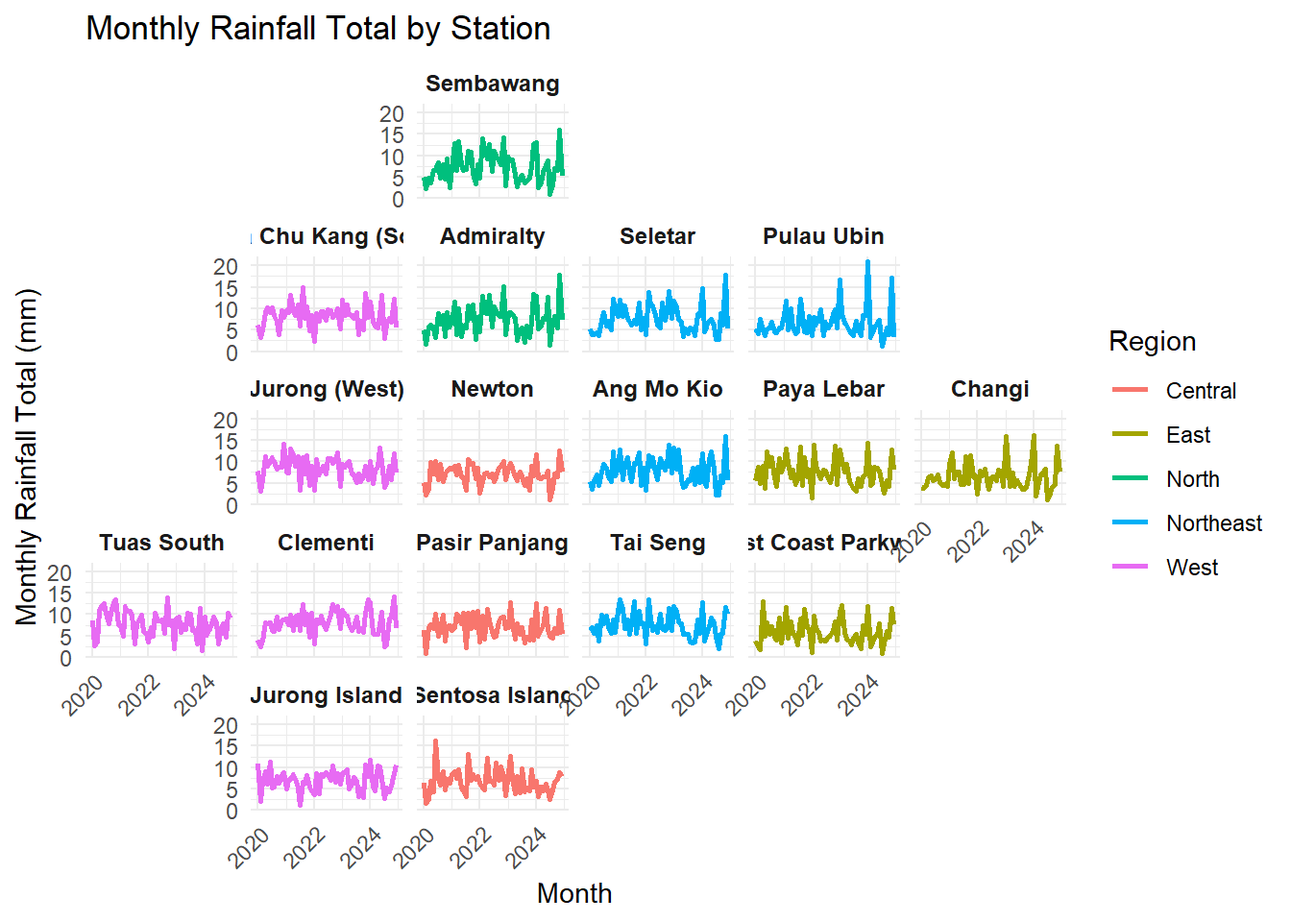
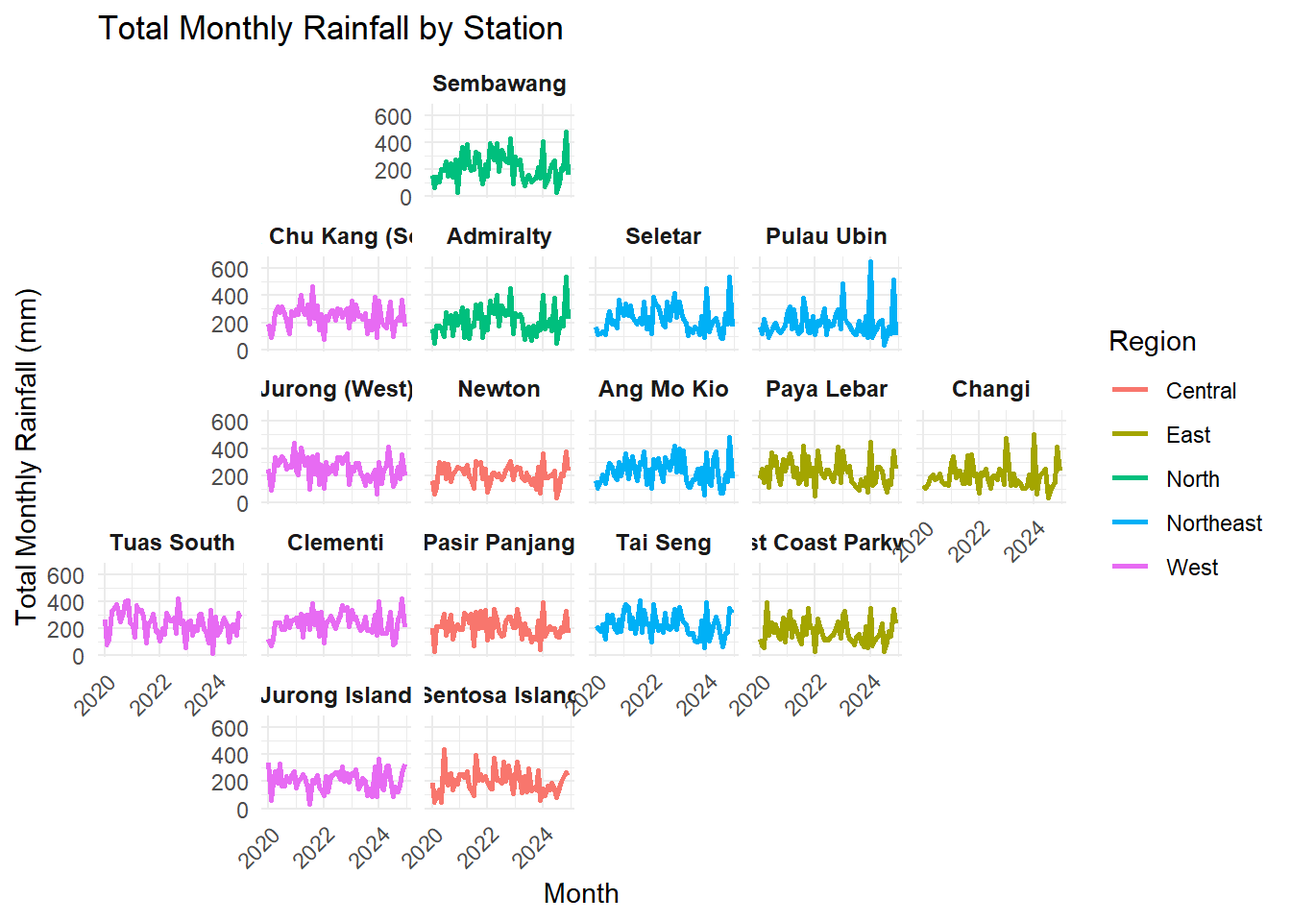
Commit after editing Take-home Exercise 3

diff --git a/_site/Take-home_Ex/Take-home_Ex03/Take-home_Ex03.html b/_site/Take-home_Ex/Take-home_Ex03/Take-home_Ex03.html
@@ -196,6 +196,10 @@ pre > code.sourceCode > span > a:first-child::before { text-decoration: underlin
     <a class="dropdown-item" href="../../Hands-on_Ex/Hands-on_Ex09/Hands-on_Ex09.html">
  <span class="dropdown-text">Hands-on Exercise 9</span></a>
   </li>  
+        <li>
+    <a class="dropdown-item" href="../../Hands-on_Ex/Hands-on_Ex10/Hands-on_Ex10.html">
+ <span class="dropdown-text">Hands-on Exercise 10</span></a>
+  </li>  
     </ul>
   </li>
   <li class="nav-item dropdown ">
@@ -274,8 +278,11 @@ pre > code.sourceCode > span > a:first-child::before { text-decoration: underlin
   <li><a href="#visualize-the-data-with-facet_geo" id="toc-visualize-the-data-with-facet_geo" class="nav-link" data-scroll-target="#visualize-the-data-with-facet_geo">Visualize the Data with <code>facet_geo()</code></a>
   <ul class="collapse">
   <li><a href="#monthly-mean-temperature" id="toc-monthly-mean-temperature" class="nav-link" data-scroll-target="#monthly-mean-temperature">Monthly Mean Temperature:</a></li>
-  <li><a href="#monthly-rainfall-total" id="toc-monthly-rainfall-total" class="nav-link" data-scroll-target="#monthly-rainfall-total">Monthly Rainfall Total:</a></li>
+  <li><a href="#monthly-total-rainfall" id="toc-monthly-total-rainfall" class="nav-link" data-scroll-target="#monthly-total-rainfall">Monthly Total Rainfall:</a></li>
   <li><a href="#yearly-mean-temperature" id="toc-yearly-mean-temperature" class="nav-link" data-scroll-target="#yearly-mean-temperature">Yearly Mean Temperature:</a></li>
+  <li><a href="#yearly-total-rainfall" id="toc-yearly-total-rainfall" class="nav-link" data-scroll-target="#yearly-total-rainfall">Yearly Total Rainfall:</a></li>
+  <li><a href="#monthly-mean-temperature-by-station-2024" id="toc-monthly-mean-temperature-by-station-2024" class="nav-link" data-scroll-target="#monthly-mean-temperature-by-station-2024">Monthly Mean Temperature by Station (2024)</a></li>
+  <li><a href="#monthly-total-rainfall-by-station-2024" id="toc-monthly-total-rainfall-by-station-2024" class="nav-link" data-scroll-target="#monthly-total-rainfall-by-station-2024">Monthly Total Rainfall by Station (2024)</a></li>
   </ul></li>
   </ul>
 </nav>
@@ -370,6 +377,7 @@ date  (1): Date
 </section>
 <section id="visualize-the-data-with-facet_geo" class="level2">
 <h2 class="anchored" data-anchor-id="visualize-the-data-with-facet_geo">Visualize the Data with <code>facet_geo()</code></h2>
+<p>Geofaceting with line graphs and bar charts.</p>
 <section id="monthly-mean-temperature" class="level3">
 <h3 class="anchored" data-anchor-id="monthly-mean-temperature">Monthly Mean Temperature:</h3>
 <div class="cell">
@@ -410,23 +418,24 @@ date  (1): Date
 </div>
 </div>
 </section>
-<section id="monthly-rainfall-total" class="level3">
-<h3 class="anchored" data-anchor-id="monthly-rainfall-total">Monthly Rainfall Total:</h3>
+<section id="monthly-total-rainfall" class="level3">
+<h3 class="anchored" data-anchor-id="monthly-total-rainfall">Monthly Total Rainfall:</h3>
 <div class="cell">
-<div class="sourceCode cell-code" id="cb9"><pre class="sourceCode r code-with-copy"><code class="sourceCode r"><span id="cb9-1"><a href="#cb9-1" aria-hidden="true" tabindex="-1"></a><span class="co"># Aggregate to monthly means</span></span>
-<span id="cb9-2"><a href="#cb9-2" aria-hidden="true" tabindex="-1"></a>weather_monthly <span class="ot">&lt;-</span> weather_data <span class="sc">%&gt;%</span></span>
+<div class="sourceCode cell-code" id="cb9"><pre class="sourceCode r code-with-copy"><code class="sourceCode r"><span id="cb9-1"><a href="#cb9-1" aria-hidden="true" tabindex="-1"></a><span class="co"># Aggregate to monthly total rainfall</span></span>
+<span id="cb9-2"><a href="#cb9-2" aria-hidden="true" tabindex="-1"></a>rainfall_monthly <span class="ot">&lt;-</span> weather_data <span class="sc">%&gt;%</span></span>
 <span id="cb9-3"><a href="#cb9-3" aria-hidden="true" tabindex="-1"></a>  <span class="fu">mutate</span>(<span class="at">Month =</span> <span class="fu">floor_date</span>(Date, <span class="st">"month"</span>)) <span class="sc">%&gt;%</span></span>
 <span id="cb9-4"><a href="#cb9-4" aria-hidden="true" tabindex="-1"></a>  <span class="fu">group_by</span>(Station, Region, Month) <span class="sc">%&gt;%</span></span>
-<span id="cb9-5"><a href="#cb9-5" aria-hidden="true" tabindex="-1"></a>  <span class="fu">summarise</span>(<span class="st">`</span><span class="at">Daily Rainfall Total (mm)</span><span class="st">`</span> <span class="ot">=</span> <span class="fu">mean</span>(<span class="st">`</span><span class="at">Daily Rainfall Total (mm)</span><span class="st">`</span>, <span class="at">na.rm =</span> <span class="cn">TRUE</span>), <span class="at">.groups =</span> <span class="st">"drop"</span>)</span>
+<span id="cb9-5"><a href="#cb9-5" aria-hidden="true" tabindex="-1"></a>  <span class="fu">summarise</span>(<span class="st">`</span><span class="at">Total Monthly Rainfall (mm)</span><span class="st">`</span> <span class="ot">=</span> <span class="fu">sum</span>(<span class="st">`</span><span class="at">Daily Rainfall Total (mm)</span><span class="st">`</span>, <span class="at">na.rm =</span> <span class="cn">TRUE</span>), <span class="at">.groups =</span> <span class="st">"drop"</span>)</span>
 <span id="cb9-6"><a href="#cb9-6" aria-hidden="true" tabindex="-1"></a></span>
-<span id="cb9-7"><a href="#cb9-7" aria-hidden="true" tabindex="-1"></a><span class="fu">ggplot</span>(weather_monthly, <span class="fu">aes</span>(<span class="at">x =</span> Month, <span class="at">y =</span> <span class="st">`</span><span class="at">Daily Rainfall Total (mm)</span><span class="st">`</span>, <span class="at">color =</span> Region)) <span class="sc">+</span></span>
-<span id="cb9-8"><a href="#cb9-8" aria-hidden="true" tabindex="-1"></a>  <span class="fu">geom_line</span>(<span class="at">size =</span> <span class="dv">1</span>) <span class="sc">+</span>  </span>
-<span id="cb9-9"><a href="#cb9-9" aria-hidden="true" tabindex="-1"></a>  <span class="fu">facet_geo</span>(<span class="sc">~</span> Station, <span class="at">grid =</span> custom_grid) <span class="sc">+</span></span>
-<span id="cb9-10"><a href="#cb9-10" aria-hidden="true" tabindex="-1"></a>  <span class="fu">theme_minimal</span>() <span class="sc">+</span></span>
-<span id="cb9-11"><a href="#cb9-11" aria-hidden="true" tabindex="-1"></a>  <span class="fu">labs</span>(<span class="at">title =</span> <span class="st">"Monthly Rainfall Total by Station"</span>,</span>
-<span id="cb9-12"><a href="#cb9-12" aria-hidden="true" tabindex="-1"></a>       <span class="at">x =</span> <span class="st">"Month"</span>, <span class="at">y =</span> <span class="st">"Monthly Rainfall Total (mm)"</span>) <span class="sc">+</span></span>
-<span id="cb9-13"><a href="#cb9-13" aria-hidden="true" tabindex="-1"></a>  <span class="fu">theme</span>(<span class="at">strip.text =</span> <span class="fu">element_text</span>(<span class="at">size =</span> <span class="dv">9</span>, <span class="at">face =</span> <span class="st">"bold"</span>),</span>
-<span id="cb9-14"><a href="#cb9-14" aria-hidden="true" tabindex="-1"></a>        <span class="at">axis.text.x =</span> <span class="fu">element_text</span>(<span class="at">angle =</span> <span class="dv">45</span>, <span class="at">hjust =</span> <span class="dv">1</span>))</span></code><button title="Copy to Clipboard" class="code-copy-button"><i class="bi"></i></button></pre></div>
+<span id="cb9-7"><a href="#cb9-7" aria-hidden="true" tabindex="-1"></a><span class="co"># Geofacet plot</span></span>
+<span id="cb9-8"><a href="#cb9-8" aria-hidden="true" tabindex="-1"></a><span class="fu">ggplot</span>(rainfall_monthly, <span class="fu">aes</span>(<span class="at">x =</span> Month, <span class="at">y =</span> <span class="st">`</span><span class="at">Total Monthly Rainfall (mm)</span><span class="st">`</span>, <span class="at">color =</span> Region)) <span class="sc">+</span></span>
+<span id="cb9-9"><a href="#cb9-9" aria-hidden="true" tabindex="-1"></a>  <span class="fu">geom_line</span>(<span class="at">size =</span> <span class="dv">1</span>) <span class="sc">+</span></span>
+<span id="cb9-10"><a href="#cb9-10" aria-hidden="true" tabindex="-1"></a>  <span class="fu">facet_geo</span>(<span class="sc">~</span> Station, <span class="at">grid =</span> custom_grid) <span class="sc">+</span></span>
+<span id="cb9-11"><a href="#cb9-11" aria-hidden="true" tabindex="-1"></a>  <span class="fu">theme_minimal</span>() <span class="sc">+</span></span>
+<span id="cb9-12"><a href="#cb9-12" aria-hidden="true" tabindex="-1"></a>  <span class="fu">labs</span>(<span class="at">title =</span> <span class="st">"Total Monthly Rainfall by Station"</span>,</span>
+<span id="cb9-13"><a href="#cb9-13" aria-hidden="true" tabindex="-1"></a>       <span class="at">x =</span> <span class="st">"Month"</span>, <span class="at">y =</span> <span class="st">"Total Monthly Rainfall (mm)"</span>) <span class="sc">+</span></span>
+<span id="cb9-14"><a href="#cb9-14" aria-hidden="true" tabindex="-1"></a>  <span class="fu">theme</span>(<span class="at">strip.text =</span> <span class="fu">element_text</span>(<span class="at">size =</span> <span class="dv">9</span>, <span class="at">face =</span> <span class="st">"bold"</span>),</span>
+<span id="cb9-15"><a href="#cb9-15" aria-hidden="true" tabindex="-1"></a>        <span class="at">axis.text.x =</span> <span class="fu">element_text</span>(<span class="at">angle =</span> <span class="dv">45</span>, <span class="at">hjust =</span> <span class="dv">1</span>))</span></code><button title="Copy to Clipboard" class="code-copy-button"><i class="bi"></i></button></pre></div>
 <div class="cell-output cell-output-stderr">
 <pre><code>Note: You provided a user-specified grid. If this is a generally-useful
   grid, please consider submitting it to become a part of the geofacet
@@ -477,24 +486,25 @@ date  (1): Date
 </div>
 </div>
 </div>
+</section>
+<section id="yearly-total-rainfall" class="level3">
+<h3 class="anchored" data-anchor-id="yearly-total-rainfall">Yearly Total Rainfall:</h3>
 <div class="cell">
-<div class="sourceCode cell-code" id="cb14"><pre class="sourceCode r code-with-copy"><code class="sourceCode r"><span id="cb14-1"><a href="#cb14-1" aria-hidden="true" tabindex="-1"></a><span class="co"># Filter for 2024 and aggregate to monthly means</span></span>
-<span id="cb14-2"><a href="#cb14-2" aria-hidden="true" tabindex="-1"></a>weather_2024_monthly <span class="ot">&lt;-</span> weather_data <span class="sc">%&gt;%</span></span>
-<span id="cb14-3"><a href="#cb14-3" aria-hidden="true" tabindex="-1"></a>  <span class="fu">filter</span>(<span class="fu">year</span>(Date) <span class="sc">==</span> <span class="dv">2024</span>) <span class="sc">%&gt;%</span></span>
-<span id="cb14-4"><a href="#cb14-4" aria-hidden="true" tabindex="-1"></a>  <span class="fu">mutate</span>(<span class="at">Month =</span> <span class="fu">floor_date</span>(Date, <span class="st">"month"</span>)) <span class="sc">%&gt;%</span></span>
-<span id="cb14-5"><a href="#cb14-5" aria-hidden="true" tabindex="-1"></a>  <span class="fu">group_by</span>(Station, Region, Month) <span class="sc">%&gt;%</span></span>
-<span id="cb14-6"><a href="#cb14-6" aria-hidden="true" tabindex="-1"></a>  <span class="fu">summarise</span>(<span class="st">`</span><span class="at">Mean Temperature (°C)</span><span class="st">`</span> <span class="ot">=</span> <span class="fu">mean</span>(<span class="st">`</span><span class="at">Mean Temperature (°C)</span><span class="st">`</span>, <span class="at">na.rm =</span> <span class="cn">TRUE</span>), <span class="at">.groups =</span> <span class="st">"drop"</span>)</span>
-<span id="cb14-7"><a href="#cb14-7" aria-hidden="true" tabindex="-1"></a></span>
-<span id="cb14-8"><a href="#cb14-8" aria-hidden="true" tabindex="-1"></a><span class="co"># Geofacet plot for 2024</span></span>
-<span id="cb14-9"><a href="#cb14-9" aria-hidden="true" tabindex="-1"></a><span class="fu">ggplot</span>(weather_2024_monthly, <span class="fu">aes</span>(<span class="at">x =</span> Month, <span class="at">y =</span> <span class="st">`</span><span class="at">Mean Temperature (°C)</span><span class="st">`</span>, <span class="at">color =</span> Region)) <span class="sc">+</span></span>
-<span id="cb14-10"><a href="#cb14-10" aria-hidden="true" tabindex="-1"></a>  <span class="fu">geom_line</span>(<span class="at">size =</span> <span class="dv">1</span>) <span class="sc">+</span></span>
-<span id="cb14-11"><a href="#cb14-11" aria-hidden="true" tabindex="-1"></a>  <span class="fu">facet_geo</span>(<span class="sc">~</span> Station, <span class="at">grid =</span> custom_grid) <span class="sc">+</span></span>
-<span id="cb14-12"><a href="#cb14-12" aria-hidden="true" tabindex="-1"></a>  <span class="fu">theme_minimal</span>() <span class="sc">+</span></span>
-<span id="cb14-13"><a href="#cb14-13" aria-hidden="true" tabindex="-1"></a>  <span class="fu">labs</span>(<span class="at">title =</span> <span class="st">"Monthly Mean Temperature by Station (2024)"</span>,</span>
-<span id="cb14-14"><a href="#cb14-14" aria-hidden="true" tabindex="-1"></a>       <span class="at">x =</span> <span class="st">"Month"</span>, <span class="at">y =</span> <span class="st">"Mean Temperature (°C)"</span>) <span class="sc">+</span></span>
-<span id="cb14-15"><a href="#cb14-15" aria-hidden="true" tabindex="-1"></a>  <span class="fu">scale_x_date</span>(<span class="at">date_labels =</span> <span class="st">"%b"</span>, <span class="at">date_breaks =</span> <span class="st">"1 month"</span>) <span class="sc">+</span></span>
-<span id="cb14-16"><a href="#cb14-16" aria-hidden="true" tabindex="-1"></a>  <span class="fu">theme</span>(<span class="at">strip.text =</span> <span class="fu">element_text</span>(<span class="at">size =</span> <span class="dv">9</span>, <span class="at">face =</span> <span class="st">"bold"</span>),</span>
-<span id="cb14-17"><a href="#cb14-17" aria-hidden="true" tabindex="-1"></a>        <span class="at">axis.text.x =</span> <span class="fu">element_text</span>(<span class="at">angle =</span> <span class="dv">45</span>, <span class="at">hjust =</span> <span class="dv">1</span>))</span></code><button title="Copy to Clipboard" class="code-copy-button"><i class="bi"></i></button></pre></div>
+<div class="sourceCode cell-code" id="cb14"><pre class="sourceCode r code-with-copy"><code class="sourceCode r"><span id="cb14-1"><a href="#cb14-1" aria-hidden="true" tabindex="-1"></a><span class="co"># Aggregate to yearly total rainfall</span></span>
+<span id="cb14-2"><a href="#cb14-2" aria-hidden="true" tabindex="-1"></a>rainfall_yearly <span class="ot">&lt;-</span> weather_data <span class="sc">%&gt;%</span></span>
+<span id="cb14-3"><a href="#cb14-3" aria-hidden="true" tabindex="-1"></a>  <span class="fu">mutate</span>(<span class="at">Year =</span> <span class="fu">year</span>(Date)) <span class="sc">%&gt;%</span></span>
+<span id="cb14-4"><a href="#cb14-4" aria-hidden="true" tabindex="-1"></a>  <span class="fu">group_by</span>(Station, Region, Year) <span class="sc">%&gt;%</span></span>
+<span id="cb14-5"><a href="#cb14-5" aria-hidden="true" tabindex="-1"></a>  <span class="fu">summarise</span>(<span class="st">`</span><span class="at">Total Yearly Rainfall (mm)</span><span class="st">`</span> <span class="ot">=</span> <span class="fu">sum</span>(<span class="st">`</span><span class="at">Daily Rainfall Total (mm)</span><span class="st">`</span>, <span class="at">na.rm =</span> <span class="cn">TRUE</span>), <span class="at">.groups =</span> <span class="st">"drop"</span>)</span>
+<span id="cb14-6"><a href="#cb14-6" aria-hidden="true" tabindex="-1"></a></span>
+<span id="cb14-7"><a href="#cb14-7" aria-hidden="true" tabindex="-1"></a><span class="co"># Geofacet bar chart of yearly total rainfall</span></span>
+<span id="cb14-8"><a href="#cb14-8" aria-hidden="true" tabindex="-1"></a><span class="fu">ggplot</span>(rainfall_yearly, <span class="fu">aes</span>(<span class="at">x =</span> <span class="fu">factor</span>(Year), <span class="at">y =</span> <span class="st">`</span><span class="at">Total Yearly Rainfall (mm)</span><span class="st">`</span>, <span class="at">fill =</span> Region)) <span class="sc">+</span></span>
+<span id="cb14-9"><a href="#cb14-9" aria-hidden="true" tabindex="-1"></a>  <span class="fu">geom_col</span>() <span class="sc">+</span></span>
+<span id="cb14-10"><a href="#cb14-10" aria-hidden="true" tabindex="-1"></a>  <span class="fu">facet_geo</span>(<span class="sc">~</span> Station, <span class="at">grid =</span> custom_grid) <span class="sc">+</span></span>
+<span id="cb14-11"><a href="#cb14-11" aria-hidden="true" tabindex="-1"></a>  <span class="fu">theme_minimal</span>() <span class="sc">+</span></span>
+<span id="cb14-12"><a href="#cb14-12" aria-hidden="true" tabindex="-1"></a>  <span class="fu">labs</span>(<span class="at">title =</span> <span class="st">"Yearly Total Rainfall by Station"</span>,</span>
+<span id="cb14-13"><a href="#cb14-13" aria-hidden="true" tabindex="-1"></a>       <span class="at">x =</span> <span class="st">"Year"</span>, <span class="at">y =</span> <span class="st">"Total Rainfall (mm)"</span>) <span class="sc">+</span></span>
+<span id="cb14-14"><a href="#cb14-14" aria-hidden="true" tabindex="-1"></a>  <span class="fu">theme</span>(<span class="at">strip.text =</span> <span class="fu">element_text</span>(<span class="at">size =</span> <span class="dv">9</span>, <span class="at">face =</span> <span class="st">"bold"</span>),</span>
+<span id="cb14-15"><a href="#cb14-15" aria-hidden="true" tabindex="-1"></a>        <span class="at">axis.text.x =</span> <span class="fu">element_text</span>(<span class="at">angle =</span> <span class="dv">45</span>, <span class="at">hjust =</span> <span class="dv">1</span>))</span></code><button title="Copy to Clipboard" class="code-copy-button"><i class="bi"></i></button></pre></div>
 <div class="cell-output cell-output-stderr">
 <pre><code>Note: You provided a user-specified grid. If this is a generally-useful
   grid, please consider submitting it to become a part of the geofacet
@@ -505,6 +515,108 @@ date  (1): Date
 <div>
 <figure class="figure">
 <p><img src="Take-home_Ex03_files/figure-html/unnamed-chunk-7-1.png" class="img-fluid figure-img" width="672"></p>
+</figure>
+</div>
+</div>
+</div>
+</section>
+<section id="monthly-mean-temperature-by-station-2024" class="level3">
+<h3 class="anchored" data-anchor-id="monthly-mean-temperature-by-station-2024">Monthly Mean Temperature by Station (2024)</h3>
+<div class="cell">
+<div class="sourceCode cell-code" id="cb16"><pre class="sourceCode r code-with-copy"><code class="sourceCode r"><span id="cb16-1"><a href="#cb16-1" aria-hidden="true" tabindex="-1"></a><span class="co"># Filter for 2024 and aggregate to monthly means</span></span>
+<span id="cb16-2"><a href="#cb16-2" aria-hidden="true" tabindex="-1"></a>weather_2024_monthly <span class="ot">&lt;-</span> weather_data <span class="sc">%&gt;%</span></span>
+<span id="cb16-3"><a href="#cb16-3" aria-hidden="true" tabindex="-1"></a>  <span class="fu">filter</span>(<span class="fu">year</span>(Date) <span class="sc">==</span> <span class="dv">2024</span>) <span class="sc">%&gt;%</span></span>
+<span id="cb16-4"><a href="#cb16-4" aria-hidden="true" tabindex="-1"></a>  <span class="fu">mutate</span>(<span class="at">Month =</span> <span class="fu">floor_date</span>(Date, <span class="st">"month"</span>)) <span class="sc">%&gt;%</span></span>
+<span id="cb16-5"><a href="#cb16-5" aria-hidden="true" tabindex="-1"></a>  <span class="fu">group_by</span>(Station, Region, Month) <span class="sc">%&gt;%</span></span>
+<span id="cb16-6"><a href="#cb16-6" aria-hidden="true" tabindex="-1"></a>  <span class="fu">summarise</span>(<span class="st">`</span><span class="at">Mean Temperature (°C)</span><span class="st">`</span> <span class="ot">=</span> <span class="fu">mean</span>(<span class="st">`</span><span class="at">Mean Temperature (°C)</span><span class="st">`</span>, <span class="at">na.rm =</span> <span class="cn">TRUE</span>), <span class="at">.groups =</span> <span class="st">"drop"</span>)</span>
+<span id="cb16-7"><a href="#cb16-7" aria-hidden="true" tabindex="-1"></a></span>
+<span id="cb16-8"><a href="#cb16-8" aria-hidden="true" tabindex="-1"></a><span class="co"># Geofacet plot for 2024</span></span>
+<span id="cb16-9"><a href="#cb16-9" aria-hidden="true" tabindex="-1"></a><span class="fu">ggplot</span>(weather_2024_monthly, <span class="fu">aes</span>(<span class="at">x =</span> Month, <span class="at">y =</span> <span class="st">`</span><span class="at">Mean Temperature (°C)</span><span class="st">`</span>, <span class="at">color =</span> Region)) <span class="sc">+</span></span>
+<span id="cb16-10"><a href="#cb16-10" aria-hidden="true" tabindex="-1"></a>  <span class="fu">geom_line</span>(<span class="at">size =</span> <span class="dv">1</span>) <span class="sc">+</span></span>
+<span id="cb16-11"><a href="#cb16-11" aria-hidden="true" tabindex="-1"></a>  <span class="fu">facet_geo</span>(<span class="sc">~</span> Station, <span class="at">grid =</span> custom_grid) <span class="sc">+</span></span>
+<span id="cb16-12"><a href="#cb16-12" aria-hidden="true" tabindex="-1"></a>  <span class="fu">theme_minimal</span>() <span class="sc">+</span></span>
+<span id="cb16-13"><a href="#cb16-13" aria-hidden="true" tabindex="-1"></a>  <span class="fu">labs</span>(<span class="at">title =</span> <span class="st">"Monthly Mean Temperature by Station (2024)"</span>,</span>
+<span id="cb16-14"><a href="#cb16-14" aria-hidden="true" tabindex="-1"></a>       <span class="at">x =</span> <span class="st">"Month"</span>, <span class="at">y =</span> <span class="st">"Mean Temperature (°C)"</span>) <span class="sc">+</span></span>
+<span id="cb16-15"><a href="#cb16-15" aria-hidden="true" tabindex="-1"></a>  <span class="fu">scale_x_date</span>(<span class="at">date_labels =</span> <span class="st">"%b"</span>, <span class="at">date_breaks =</span> <span class="st">"1 month"</span>) <span class="sc">+</span></span>
+<span id="cb16-16"><a href="#cb16-16" aria-hidden="true" tabindex="-1"></a>  <span class="fu">theme</span>(<span class="at">strip.text =</span> <span class="fu">element_text</span>(<span class="at">size =</span> <span class="dv">9</span>, <span class="at">face =</span> <span class="st">"bold"</span>),</span>
+<span id="cb16-17"><a href="#cb16-17" aria-hidden="true" tabindex="-1"></a>        <span class="at">axis.text.x =</span> <span class="fu">element_text</span>(<span class="at">angle =</span> <span class="dv">45</span>, <span class="at">hjust =</span> <span class="dv">1</span>))</span></code><button title="Copy to Clipboard" class="code-copy-button"><i class="bi"></i></button></pre></div>
+<div class="cell-output cell-output-stderr">
+<pre><code>Note: You provided a user-specified grid. If this is a generally-useful
+  grid, please consider submitting it to become a part of the geofacet
+  package. You can do this easily by calling:
+  grid_submit(__grid_df_name__)</code></pre>
+</div>
+<div class="cell-output-display">
+<div>
+<figure class="figure">
+<p><img src="Take-home_Ex03_files/figure-html/unnamed-chunk-8-1.png" class="img-fluid figure-img" width="672"></p>
+</figure>
+</div>
+</div>
+</div>
+</section>
+<section id="monthly-total-rainfall-by-station-2024" class="level3">
+<h3 class="anchored" data-anchor-id="monthly-total-rainfall-by-station-2024">Monthly Total Rainfall by Station (2024)</h3>
+<div class="cell">
+<div class="sourceCode cell-code" id="cb18"><pre class="sourceCode r code-with-copy"><code class="sourceCode r"><span id="cb18-1"><a href="#cb18-1" aria-hidden="true" tabindex="-1"></a><span class="co"># Aggregate to monthly total rainfall for 2024</span></span>
+<span id="cb18-2"><a href="#cb18-2" aria-hidden="true" tabindex="-1"></a>rainfall_2024 <span class="ot">&lt;-</span> weather_data <span class="sc">%&gt;%</span></span>
+<span id="cb18-3"><a href="#cb18-3" aria-hidden="true" tabindex="-1"></a>  <span class="fu">filter</span>(<span class="fu">year</span>(Date) <span class="sc">==</span> <span class="dv">2024</span>) <span class="sc">%&gt;%</span></span>
+<span id="cb18-4"><a href="#cb18-4" aria-hidden="true" tabindex="-1"></a>  <span class="fu">mutate</span>(<span class="at">Month =</span> <span class="fu">floor_date</span>(Date, <span class="st">"month"</span>)) <span class="sc">%&gt;%</span></span>
+<span id="cb18-5"><a href="#cb18-5" aria-hidden="true" tabindex="-1"></a>  <span class="fu">group_by</span>(Station, Region, Month) <span class="sc">%&gt;%</span></span>
+<span id="cb18-6"><a href="#cb18-6" aria-hidden="true" tabindex="-1"></a>  <span class="fu">summarise</span>(<span class="st">`</span><span class="at">Daily Rainfall Total (mm)</span><span class="st">`</span> <span class="ot">=</span> <span class="fu">sum</span>(<span class="st">`</span><span class="at">Daily Rainfall Total (mm)</span><span class="st">`</span>, <span class="at">na.rm =</span> <span class="cn">TRUE</span>), <span class="at">.groups =</span> <span class="st">"drop"</span>)</span>
+<span id="cb18-7"><a href="#cb18-7" aria-hidden="true" tabindex="-1"></a></span>
+<span id="cb18-8"><a href="#cb18-8" aria-hidden="true" tabindex="-1"></a><span class="co"># Geofacet bar chart with abbreviated month labels</span></span>
+<span id="cb18-9"><a href="#cb18-9" aria-hidden="true" tabindex="-1"></a><span class="fu">ggplot</span>(rainfall_2024, <span class="fu">aes</span>(<span class="at">x =</span> Month, <span class="at">y =</span> <span class="st">`</span><span class="at">Daily Rainfall Total (mm)</span><span class="st">`</span>, <span class="at">color =</span> Region)) <span class="sc">+</span></span>
+<span id="cb18-10"><a href="#cb18-10" aria-hidden="true" tabindex="-1"></a>  <span class="fu">geom_line</span>(<span class="at">size =</span> <span class="dv">1</span>) <span class="sc">+</span></span>
+<span id="cb18-11"><a href="#cb18-11" aria-hidden="true" tabindex="-1"></a>  <span class="fu">facet_geo</span>(<span class="sc">~</span> Station, <span class="at">grid =</span> custom_grid) <span class="sc">+</span></span>
+<span id="cb18-12"><a href="#cb18-12" aria-hidden="true" tabindex="-1"></a>  <span class="fu">theme_minimal</span>() <span class="sc">+</span></span>
+<span id="cb18-13"><a href="#cb18-13" aria-hidden="true" tabindex="-1"></a>  <span class="fu">labs</span>(<span class="at">title =</span> <span class="st">"Monthly Total Rainfall by Station (2024)"</span>,</span>
+<span id="cb18-14"><a href="#cb18-14" aria-hidden="true" tabindex="-1"></a>       <span class="at">x =</span> <span class="st">"Month"</span>, <span class="at">y =</span> <span class="st">"Total Rainfall (mm)"</span>) <span class="sc">+</span></span>
+<span id="cb18-15"><a href="#cb18-15" aria-hidden="true" tabindex="-1"></a>  <span class="fu">scale_x_date</span>(<span class="at">date_labels =</span> <span class="st">"%b"</span>, <span class="at">date_breaks =</span> <span class="st">"1 month"</span>) <span class="sc">+</span></span>
+<span id="cb18-16"><a href="#cb18-16" aria-hidden="true" tabindex="-1"></a>  <span class="fu">theme</span>(<span class="at">strip.text =</span> <span class="fu">element_text</span>(<span class="at">size =</span> <span class="dv">9</span>, <span class="at">face =</span> <span class="st">"bold"</span>),</span>
+<span id="cb18-17"><a href="#cb18-17" aria-hidden="true" tabindex="-1"></a>        <span class="at">axis.text.x =</span> <span class="fu">element_text</span>(<span class="at">angle =</span> <span class="dv">45</span>, <span class="at">hjust =</span> <span class="dv">1</span>))</span></code><button title="Copy to Clipboard" class="code-copy-button"><i class="bi"></i></button></pre></div>
+<div class="cell-output cell-output-stderr">
+<pre><code>Note: You provided a user-specified grid. If this is a generally-useful
+  grid, please consider submitting it to become a part of the geofacet
+  package. You can do this easily by calling:
+  grid_submit(__grid_df_name__)</code></pre>
+</div>
+<div class="cell-output-display">
+<div>
+<figure class="figure">
+<p><img src="Take-home_Ex03_files/figure-html/unnamed-chunk-9-1.png" class="img-fluid figure-img" width="672"></p>
+</figure>
+</div>
+</div>
+</div>
+<div class="cell">
+<div class="sourceCode cell-code" id="cb20"><pre class="sourceCode r code-with-copy"><code class="sourceCode r"><span id="cb20-1"><a href="#cb20-1" aria-hidden="true" tabindex="-1"></a><span class="co"># Aggregate to monthly total rainfall for 2024</span></span>
+<span id="cb20-2"><a href="#cb20-2" aria-hidden="true" tabindex="-1"></a>rainfall_2024 <span class="ot">&lt;-</span> weather_data <span class="sc">%&gt;%</span></span>
+<span id="cb20-3"><a href="#cb20-3" aria-hidden="true" tabindex="-1"></a>  <span class="fu">filter</span>(<span class="fu">year</span>(Date) <span class="sc">==</span> <span class="dv">2024</span>) <span class="sc">%&gt;%</span></span>
+<span id="cb20-4"><a href="#cb20-4" aria-hidden="true" tabindex="-1"></a>  <span class="fu">mutate</span>(<span class="at">Month =</span> <span class="fu">floor_date</span>(Date, <span class="st">"month"</span>)) <span class="sc">%&gt;%</span></span>
+<span id="cb20-5"><a href="#cb20-5" aria-hidden="true" tabindex="-1"></a>  <span class="fu">group_by</span>(Station, Region, Month) <span class="sc">%&gt;%</span></span>
+<span id="cb20-6"><a href="#cb20-6" aria-hidden="true" tabindex="-1"></a>  <span class="fu">summarise</span>(<span class="st">`</span><span class="at">Daily Rainfall Total (mm)</span><span class="st">`</span> <span class="ot">=</span> <span class="fu">sum</span>(<span class="st">`</span><span class="at">Daily Rainfall Total (mm)</span><span class="st">`</span>, <span class="at">na.rm =</span> <span class="cn">TRUE</span>), <span class="at">.groups =</span> <span class="st">"drop"</span>)</span>
+<span id="cb20-7"><a href="#cb20-7" aria-hidden="true" tabindex="-1"></a></span>
+<span id="cb20-8"><a href="#cb20-8" aria-hidden="true" tabindex="-1"></a><span class="co"># Geofacet bar chart with abbreviated month labels</span></span>
+<span id="cb20-9"><a href="#cb20-9" aria-hidden="true" tabindex="-1"></a><span class="fu">ggplot</span>(rainfall_2024, <span class="fu">aes</span>(<span class="at">x =</span> Month, <span class="at">y =</span> <span class="st">`</span><span class="at">Daily Rainfall Total (mm)</span><span class="st">`</span>, <span class="at">fill =</span> Region)) <span class="sc">+</span></span>
+<span id="cb20-10"><a href="#cb20-10" aria-hidden="true" tabindex="-1"></a>  <span class="fu">geom_col</span>() <span class="sc">+</span></span>
+<span id="cb20-11"><a href="#cb20-11" aria-hidden="true" tabindex="-1"></a>  <span class="fu">facet_geo</span>(<span class="sc">~</span> Station, <span class="at">grid =</span> custom_grid) <span class="sc">+</span></span>
+<span id="cb20-12"><a href="#cb20-12" aria-hidden="true" tabindex="-1"></a>  <span class="fu">theme_minimal</span>() <span class="sc">+</span></span>
+<span id="cb20-13"><a href="#cb20-13" aria-hidden="true" tabindex="-1"></a>  <span class="fu">labs</span>(<span class="at">title =</span> <span class="st">"Monthly Total Rainfall by Station (2024)"</span>,</span>
+<span id="cb20-14"><a href="#cb20-14" aria-hidden="true" tabindex="-1"></a>       <span class="at">x =</span> <span class="st">"Month"</span>, <span class="at">y =</span> <span class="st">"Total Rainfall (mm)"</span>) <span class="sc">+</span></span>
+<span id="cb20-15"><a href="#cb20-15" aria-hidden="true" tabindex="-1"></a>  <span class="fu">scale_x_date</span>(<span class="at">date_labels =</span> <span class="st">"%b"</span>, <span class="at">date_breaks =</span> <span class="st">"1 month"</span>) <span class="sc">+</span></span>
+<span id="cb20-16"><a href="#cb20-16" aria-hidden="true" tabindex="-1"></a>  <span class="fu">theme</span>(<span class="at">strip.text =</span> <span class="fu">element_text</span>(<span class="at">size =</span> <span class="dv">9</span>, <span class="at">face =</span> <span class="st">"bold"</span>),</span>
+<span id="cb20-17"><a href="#cb20-17" aria-hidden="true" tabindex="-1"></a>        <span class="at">axis.text.x =</span> <span class="fu">element_text</span>(<span class="at">angle =</span> <span class="dv">45</span>, <span class="at">hjust =</span> <span class="dv">1</span>))</span></code><button title="Copy to Clipboard" class="code-copy-button"><i class="bi"></i></button></pre></div>
+<div class="cell-output cell-output-stderr">
+<pre><code>Note: You provided a user-specified grid. If this is a generally-useful
+  grid, please consider submitting it to become a part of the geofacet
+  package. You can do this easily by calling:
+  grid_submit(__grid_df_name__)</code></pre>
+</div>
+<div class="cell-output-display">
+<div>
+<figure class="figure">
+<p><img src="Take-home_Ex03_files/figure-html/unnamed-chunk-10-1.png" class="img-fluid figure-img" width="672"></p>
 </figure>
 </div>
 </div>
